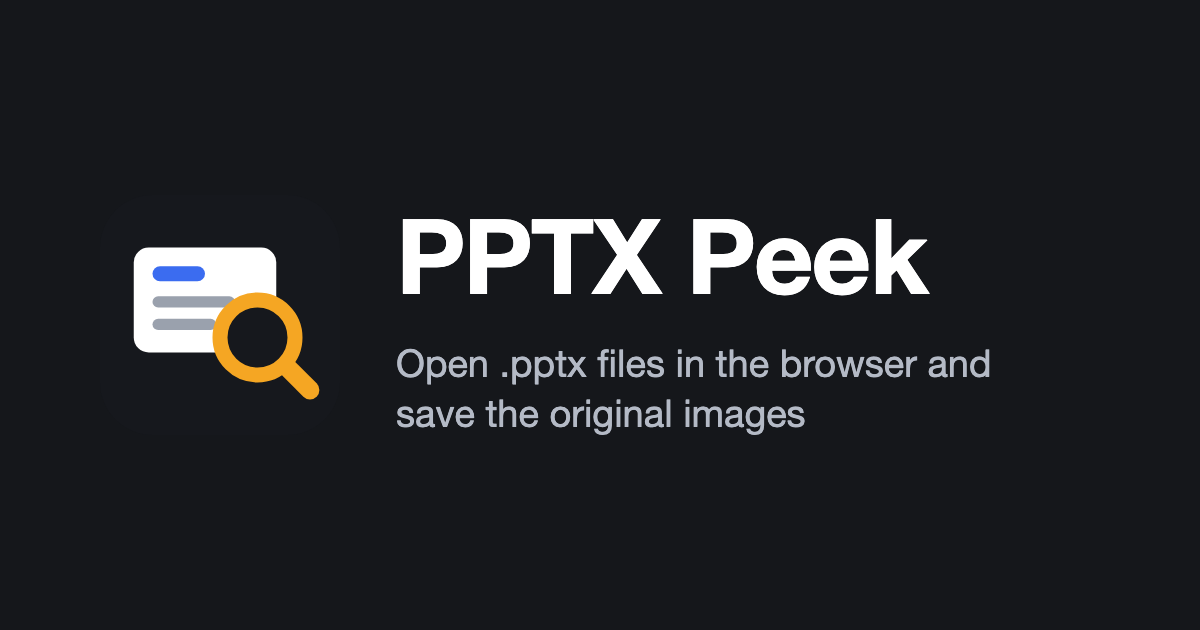
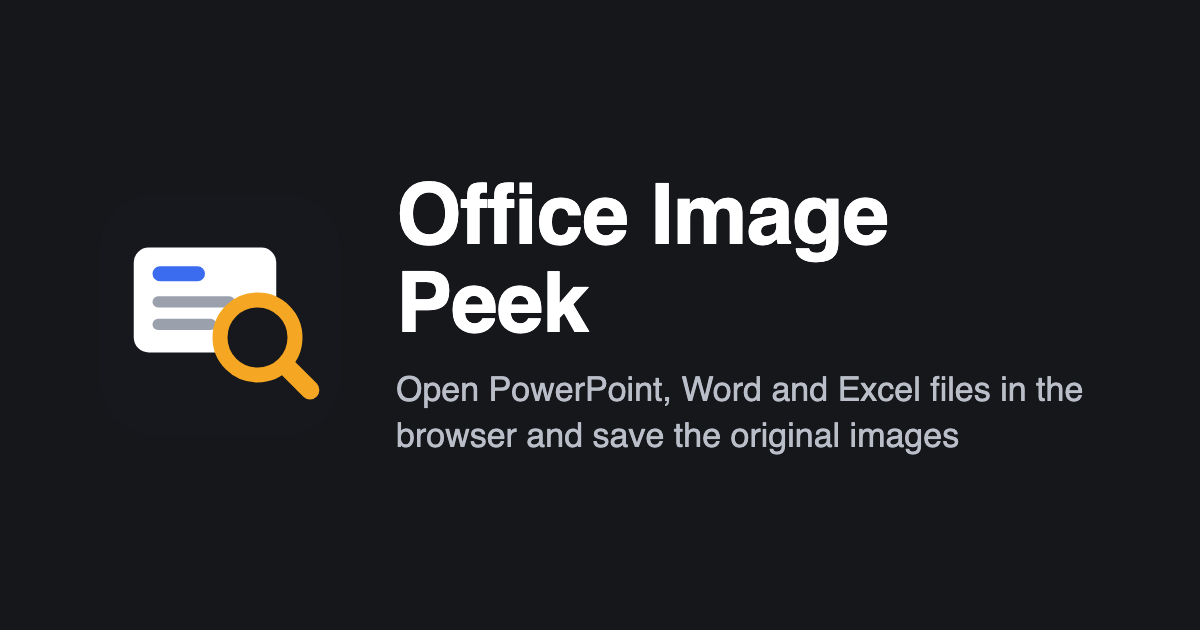
chore: rename the app to Office Image Peek
It now opens Word and Excel files too, so the PPTX-only name no longer
fits. Pages moves to /office-image-peek/; settings saved under the old
pptx-peek storage keys are still read at boot.

Changed region(s): [[0.3083, 0.2714, 0.925, 0.7238]]

diff --git a/index.html b/index.html
@@ -3,20 +3,20 @@
   <head>
     <meta charset="UTF-8" />
     <meta name="viewport" content="width=device-width, initial-scale=1.0" />
-    <title>PPTX Peek</title>
+    <title>Office Image Peek</title>
     <meta
       name="description"
       content="Open PowerPoint, Word and Excel files in the browser and save the original images. Nothing leaves your computer."
     />
     <meta property="og:type" content="website" />
-    <meta property="og:title" content="PPTX Peek" />
+    <meta property="og:title" content="Office Image Peek" />
     <meta
       property="og:description"
       content="Open PowerPoint, Word and Excel files in the browser and save the original images. Nothing leaves your computer."
     />
     <meta
       property="og:image"
-      content="https://piecioshka.github.io/pptx-peek/og-image.png"
+      content="https://piecioshka.github.io/office-image-peek/og-image.png"
     />
     <meta name="twitter:card" content="summary_large_image" />
     <meta name="theme-color" content="#15171b" />
@@ -28,19 +28,23 @@
         var root = document.documentElement;
         function stored(key) {
           try {
-            return localStorage.getItem(key);
+            // Settings saved before the rename used the pptx-peek prefix.
+            return (
+              localStorage.getItem('office-image-peek:' + key) ||
+              localStorage.getItem('pptx-peek:' + key)
+            );
           } catch (error) {
             return null;
           }
         }
-        var lang = stored('pptx-peek:lang');
+        var lang = stored('lang');
         if (lang !== 'pl' && lang !== 'en') {
           lang =
             (navigator.language || '').toLowerCase().indexOf('pl') === 0
               ? 'pl'
               : 'en';
         }
-        var theme = stored('pptx-peek:theme');
+        var theme = stored('theme');
         if (theme !== 'light' && theme !== 'dark') {
           theme =
             window.matchMedia &&

diff --git a/e2e/shell.spec.ts b/e2e/shell.spec.ts
@@ -31,7 +31,7 @@ test('right side controls are in the agreed order', async ({ page }) => {
   );
   await expect(actions.locator('a')).toHaveAttribute(
     'href',
-    'https://github.com/piecioshka/pptx-peek',
+    'https://github.com/piecioshka/office-image-peek',
   );
 });
 
@@ -49,8 +49,8 @@ test('boot script applies the stored theme and language before render', async ({
   page,
 }) => {
   await page.addInitScript(() => {
-    localStorage.setItem('pptx-peek:theme', 'dark');
-    localStorage.setItem('pptx-peek:lang', 'pl');
+    localStorage.setItem('office-image-peek:theme', 'dark');
+    localStorage.setItem('office-image-peek:lang', 'pl');
   });
   await page.goto('/');
   await expect(page.locator('html')).toHaveAttribute('data-theme', 'dark');
@@ -73,9 +73,21 @@ test('serves a manifest with file handlers and a CSP without violations', async 
     fetch('manifest.webmanifest').then((response) => response.json()),
   );
   expect(manifest.file_handlers).toHaveLength(1);
-  expect(manifest.name).toBe('PPTX Peek');
+  expect(manifest.name).toBe('Office Image Peek');
   await expect(
     page.locator('meta[http-equiv="Content-Security-Policy"]'),
   ).toHaveCount(1);
   expect(violations).toEqual([]);
+});
+
+test('keeps theme and language saved under the old app name', async ({
+  page,
+}) => {
+  await page.addInitScript(() => {
+    localStorage.setItem('pptx-peek:theme', 'dark');
+    localStorage.setItem('pptx-peek:lang', 'pl');
+  });
+  await page.goto('/');
+  await expect(page.locator('html')).toHaveAttribute('data-theme', 'dark');
+  await expect(page.locator('html')).toHaveAttribute('lang', 'pl');
 });

diff --git a/src/ui/App.spec.tsx b/src/ui/App.spec.tsx
@@ -30,7 +30,7 @@ describe('App shell', () => {
     render(<App />);
     const headings = screen.getAllByRole('heading', { level: 1 });
     expect(headings).toHaveLength(1);
-    expect(headings[0]?.textContent).toBe('PPTX Peek');
+    expect(headings[0]?.textContent).toBe('Office Image Peek');
   });
 
   it('toggles the theme and persists it', async () => {
@@ -39,7 +39,7 @@ describe('App shell', () => {
     await userEvent.click(screen.getByRole('button', { name: /theme|motyw/i }));
     const after = document.documentElement.dataset.theme;
     expect(after).not.toBe(before);
-    expect(localStorage.getItem('pptx-peek:theme')).toBe(after);
+    expect(localStorage.getItem('office-image-peek:theme')).toBe(after);
   });
 
   it('switches the language of the drop text', async () => {
@@ -53,7 +53,7 @@ describe('App shell', () => {
     expect(
       screen.getByText(/^Upuść plik PowerPointa, Worda albo Excela/),
     ).toBeTruthy();
-    expect(localStorage.getItem('pptx-peek:lang')).toBe('pl');
+    expect(localStorage.getItem('office-image-peek:lang')).toBe('pl');
   });
 
   it('shows the invalid file message for a non-zip file', async () => {

diff --git a/e2e/screenshots.spec.ts b/e2e/screenshots.spec.ts
@@ -6,12 +6,12 @@ const DECK = 'e2e/fixtures/demo.pptx';
 for (const theme of ['light', 'dark']) {
   test(`@screenshots main view (${theme})`, async ({ page }) => {
     await page.addInitScript((value) => {
-      localStorage.setItem('pptx-peek:theme', value);
-      localStorage.setItem('pptx-peek:lang', 'en');
+      localStorage.setItem('office-image-peek:theme', value);
+      localStorage.setItem('office-image-peek:lang', 'en');
     }, theme);
     await page.setViewportSize({ width: 1440, height: 900 });
     await page.goto('/');
-    await expect(page.locator('h1')).toHaveText('PPTX Peek');
+    await expect(page.locator('h1')).toHaveText('Office Image Peek');
     await page.locator('input[type="file"]').setInputFiles(DECK);
     await expect(page.locator('.slide-list li')).toHaveCount(5);
     await page.keyboard.press('ArrowDown');

diff --git a/e2e/images.spec.ts b/e2e/images.spec.ts
@@ -38,7 +38,7 @@ function expectedHash(exportName: string): string {
 
 async function openDemo(page: Page) {
   await page.goto('/');
-  await expect(page.locator('h1')).toHaveText('PPTX Peek');
+  await expect(page.locator('h1')).toHaveText('Office Image Peek');
   await page.locator('input[type="file"]').setInputFiles(DECK);
   await expect(page.locator('.tile')).toHaveCount(7);
 }
@@ -92,7 +92,7 @@ test('falls back to a ZIP whose entries match their sources', async ({
 
 test('makes no network requests after load', async ({ page, baseURL }) => {
   await page.goto('/');
-  await expect(page.locator('h1')).toHaveText('PPTX Peek');
+  await expect(page.locator('h1')).toHaveText('Office Image Peek');
   const foreign: string[] = [];
   page.on('request', (request) => {
     const url = request.url();

diff --git a/src/ui/i18n.ts b/src/ui/i18n.ts
@@ -2,7 +2,7 @@ import { useCallback } from 'react';
 import { usePreferences, type Lang } from './preferences';
 
 const en = {
-  appName: 'PPTX Peek',
+  appName: 'Office Image Peek',
   dropText:
     'Drop a PowerPoint, Word or Excel file (.pptx, .docx, .xlsx) or choose one',
   chooseFile: 'Choose file',
@@ -96,7 +96,7 @@ const en = {
 export type MessageKey = keyof typeof en;
 
 const pl: Record<MessageKey, string> = {
-  appName: 'PPTX Peek',
+  appName: 'Office Image Peek',
   dropText:
     'Upuść plik PowerPointa, Worda albo Excela (.pptx, .docx, .xlsx) lub wybierz z dysku',
   chooseFile: 'Wybierz plik',

diff --git a/e2e/slides.spec.ts b/e2e/slides.spec.ts
@@ -6,7 +6,7 @@ const DECK = 'e2e/fixtures/demo.pptx';
 async function openDemo(page: Page) {
   await page.goto('/');
   // Shortcut listeners attach in an effect, so wait for the first render.
-  await expect(page.locator('h1')).toHaveText('PPTX Peek');
+  await expect(page.locator('h1')).toHaveText('Office Image Peek');
   await page.locator('input[type="file"]').setInputFiles(DECK);
   await expect(page.locator('.slide-list li')).toHaveCount(5);
 }

diff --git a/src/ui/preferences.ts b/src/ui/preferences.ts
@@ -3,8 +3,8 @@ import { useCallback, useSyncExternalStore } from 'react';
 export type Lang = 'pl' | 'en';
 export type Theme = 'light' | 'dark';
 
-const LANG_KEY = 'pptx-peek:lang';
-const THEME_KEY = 'pptx-peek:theme';
+const LANG_KEY = 'office-image-peek:lang';
+const THEME_KEY = 'office-image-peek:theme';
 const listeners = new Set<() => void>();
 
 function isLang(value: string | null): value is Lang {

diff --git a/e2e/smoke.spec.ts b/e2e/smoke.spec.ts
@@ -2,6 +2,6 @@ import { expect, test } from '@playwright/test';
 
 test('shows the app title', async ({ page }) => {
   await page.goto('/');
-  await expect(page).toHaveTitle('PPTX Peek');
-  await expect(page.locator('h1')).toHaveText('PPTX Peek');
+  await expect(page).toHaveTitle('Office Image Peek');
+  await expect(page.locator('h1')).toHaveText('Office Image Peek');
 });

diff --git a/src/ui/Topbar.tsx b/src/ui/Topbar.tsx
@@ -2,7 +2,7 @@ import { FolderOpen, Keyboard, Moon, Sun } from 'lucide-react';
 import { useT } from './i18n';
 import { usePreferences } from './preferences';
 
-export const REPOSITORY_URL = 'https://github.com/piecioshka/pptx-peek';
+export const REPOSITORY_URL = 'https://github.com/piecioshka/office-image-peek';
 
 function GitHubIcon() {
   return (

diff --git a/vite/csp-plugin.ts b/vite/csp-plugin.ts
@@ -20,7 +20,7 @@ function buildCsp(bootHash: string): string {
 /** Production only: injects the CSP meta with the hash of the inline boot script. */
 export function cspPlugin(): Plugin {
   return {
-    name: 'pptx-peek-csp',
+    name: 'office-image-peek-csp',
     apply: 'build',
     transformIndexHtml: {
       order: 'post',

diff --git a/public/sw.js b/public/sw.js
@@ -1,7 +1,7 @@
 // The build replaces VERSION and PRECACHE (see vite/sw-plugin.ts).
 const VERSION = 'dev';
 const PRECACHE = [];
-const PREFIX = 'pptx-peek-';
+const PREFIX = 'office-image-peek-';
 const CACHE = PREFIX + VERSION;
 
 self.addEventListener('install', (event) => {
